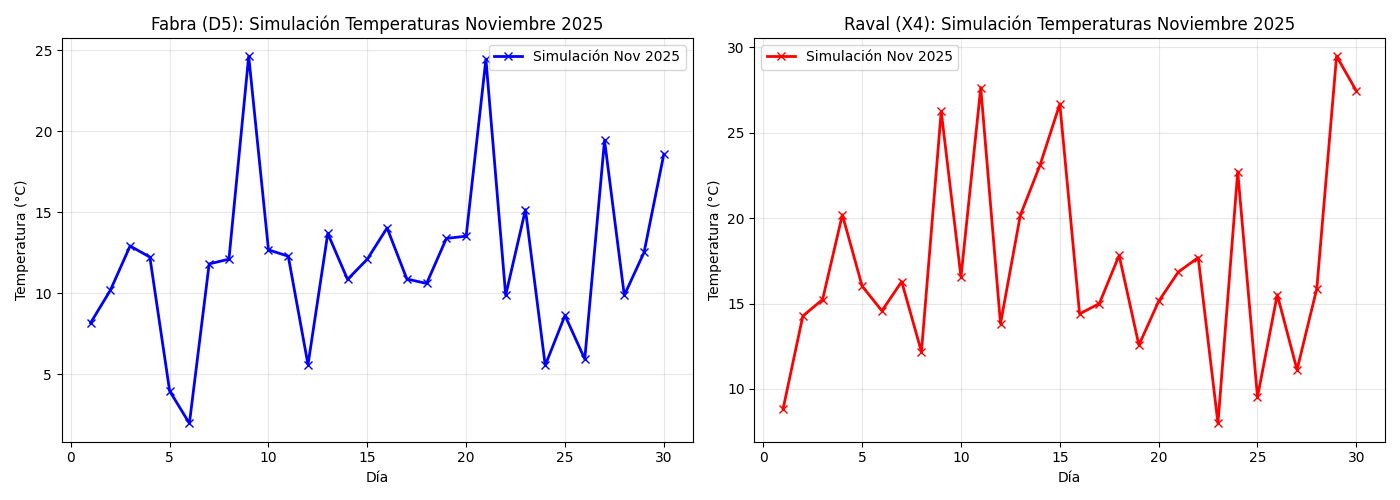
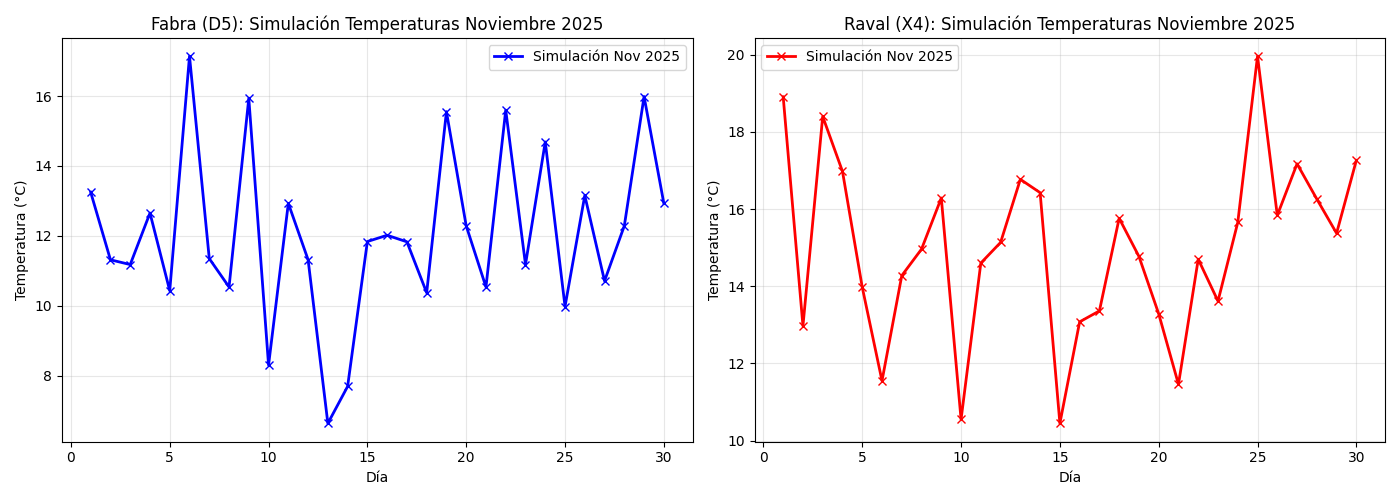
Corregir warning que daba el terminal al pasar a datetime

diff --git a/src/utils.py b/src/utils.py
@@ -22,7 +22,15 @@ def cargar_datos(ruta_archivo):
     )
     
     # Parsear DATA_LECTURA a datetime
-    dataframe['DATA_LECTURA'] = pd.to_datetime(dataframe['DATA_LECTURA'], errors='coerce')
+    try:
+        dataframe['DATA_LECTURA'] = pd.to_datetime(
+            dataframe['DATA_LECTURA'], 
+            format='%d/%m/%Y %I:%M:%S %p',  # Formato: "20/10/2025 03:30:00 PM"
+            errors='coerce'
+        )
+    except:
+        # Si falla el formato específico, usar inferencia automática
+        dataframe['DATA_LECTURA'] = pd.to_datetime(dataframe['DATA_LECTURA'], errors='coerce')
     
     print(f"Datos cargados: {len(dataframe)} filas")
     return dataframe
